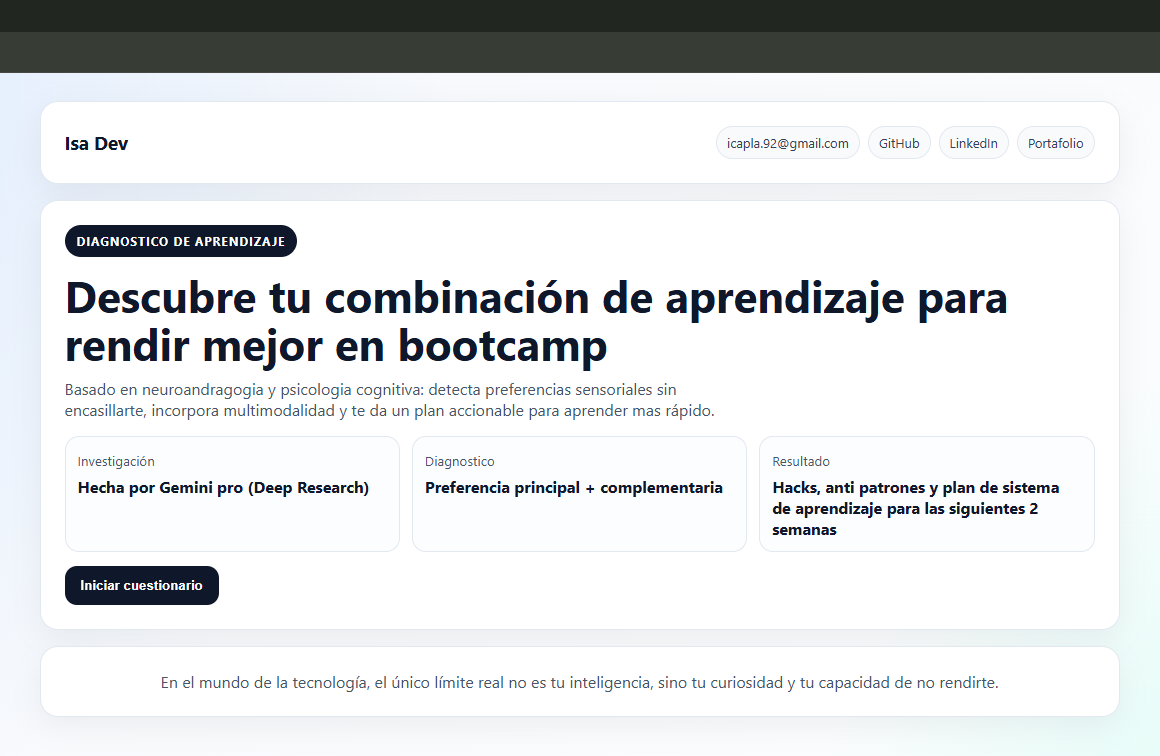
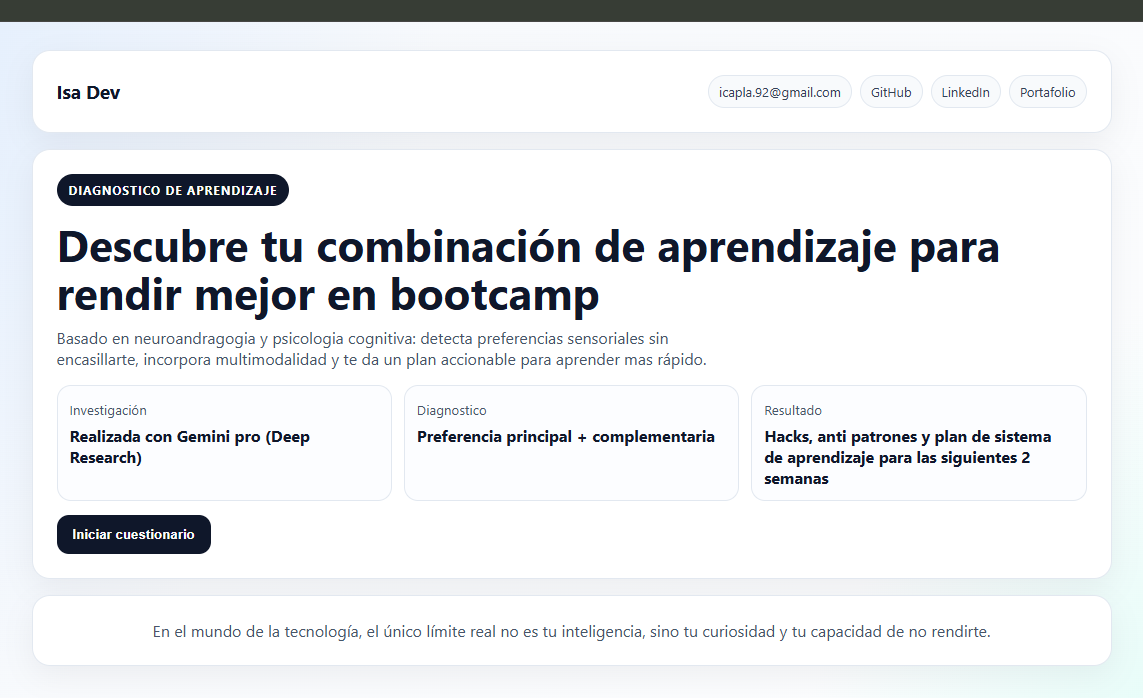
update Readme

diff --git a/index.html b/index.html
@@ -523,7 +523,7 @@ options: [
             incorpora multimodalidad y te da un plan accionable para aprender mas rápido.
           </p>
           <div class="grid-3">
-            <article class="mini"><small class="muted">Investigación</small><b>Hecha por Gemini pro (Deep Research) </b></article>
+            <article class="mini"><small class="muted">Investigación</small><b>Realizada con Gemini pro (Deep Research) </b></article>
             <article class="mini"><small class="muted">Diagnostico</small><b>Preferencia principal + complementaria</b></article>
             <article class="mini"><small class="muted">Resultado</small><b>Hacks, anti patrones y plan de sistema de aprendizaje para las siguientes 2 semanas</b></article>
           </div>
